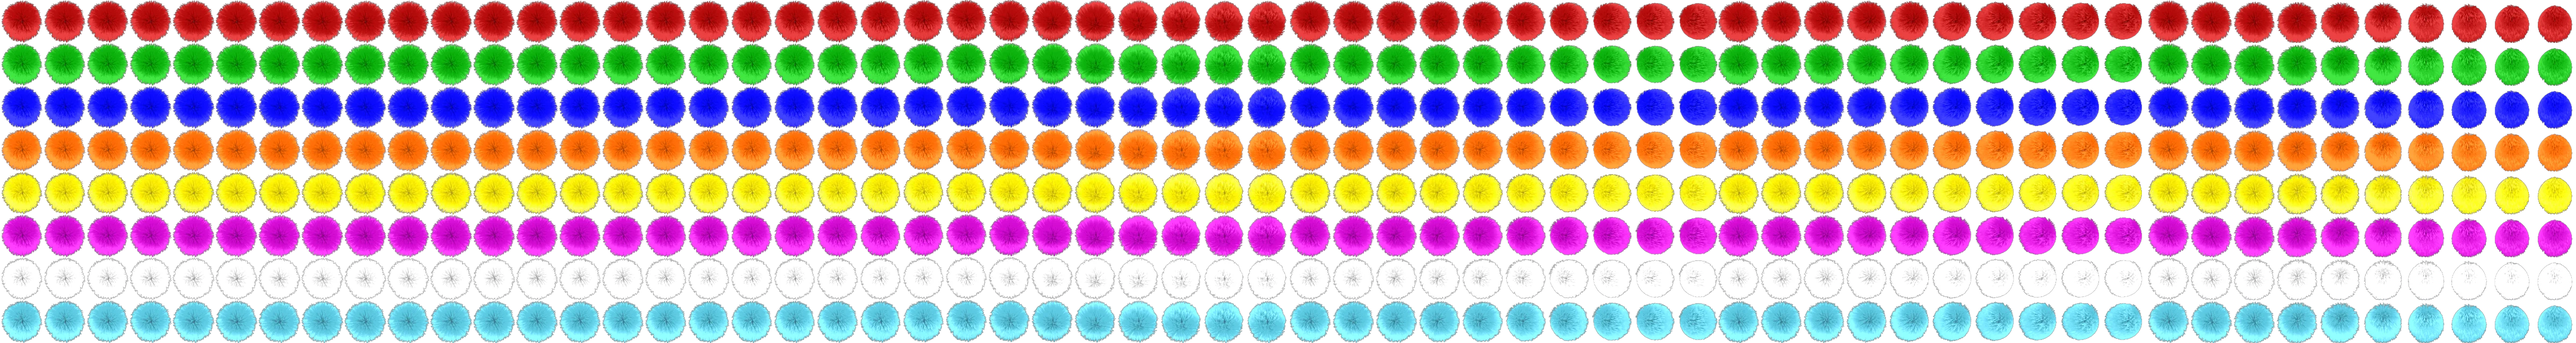
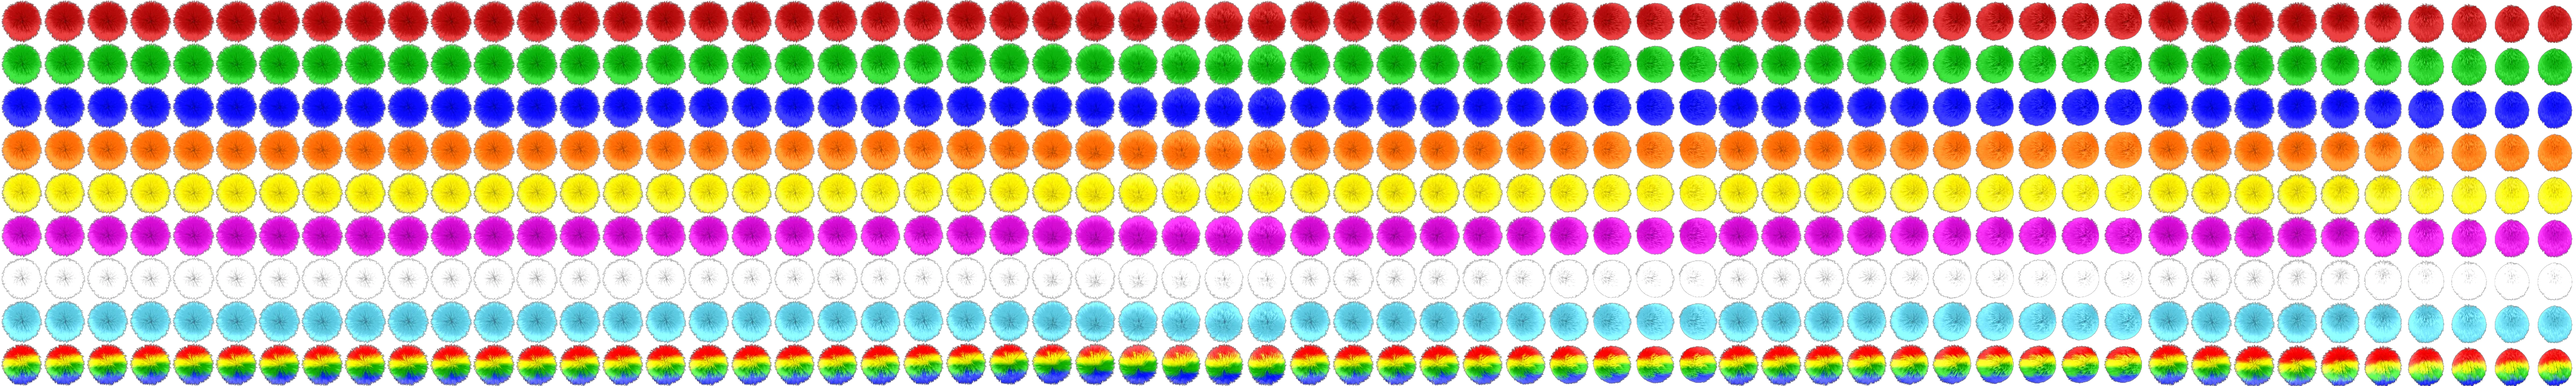
Mind Bender solver: the game's rainbow chuzzle

diff --git a/public/mindbender/app.js b/public/mindbender/app.js
@@ -3,8 +3,10 @@
 
 (() => {
   const COLORS = ['Red', 'Green', 'Blue', 'Orange', 'Yellow', 'Purple', 'White', 'Cyan'];
-  // Chuzzle 2's rainbow chuzzle: colour 8, on 5x5 boards only (the 6x6 solver packs 8 colours
-  // in 3 bits); it takes the 2x2's place in the palette, which 5x5 boards never have
+  // The rainbow chuzzle: colour 8 (Chuzzle 1 has it too: its own painted sprites, row 8 of
+  // chuzzles.webp, and the tint (1, 1, 0.5) in Board::InitColors). On 5x5 boards only (the 6x6
+  // solver packs 8 colours in 3 bits); it takes the 2x2's place in the palette, which 5x5
+  // boards never have
   const RAINBOW = 8;
   const colourName = (k) => (k === RAINBOW ? 'Rainbow' : COLORS[k]);
   const MAX_DEPTH = 12;
@@ -438,42 +440,16 @@
     ['shockwave', 'shockwave']]) {
     const img = new Image();
     img.src = `assets/${file}.webp`;
-    img.decode().then(() => { SHEETS[name] = name === 'body' ? withRainbow(img) : img; }, () => {});
+    img.decode().then(() => { SHEETS[name] = img; }, () => {});
   }
   // Board::InitColors: the hilite tints (mColors2; the match outline's colour) and the 2x2's
   // hilite, also the cheeks' (mColors3); and the page's own body tints (gen_sprites.py), for
   // the shut lids and the fuzz
-  const HILITE = [[1, 0.4, 0.4], [0.45, 0.9, 0.45], [0.55, 0.55, 1], [1, 0.85, 0.3], [1, 1, 0.55], [1, 0.65, 1], [1, 1, 1], [0.5, 1, 1], [1, 0.75, 1]];
-  const HILITE3 = [[1, 0.45, 0.45], [0.25, 0.9, 0.5], [0.55, 0.55, 1], [1, 0.85, 0.55], [1, 1, 0.75], [1, 0.6, 1], [1, 1, 1], [0.65, 1, 1], [1, 0.7, 1]];
-  const BODY = [[0.7, 0.03, 0.03], [0.03, 0.68, 0.03], [0.03, 0.03, 1], [1, 0.41, 0.01], [1, 1, 0], [0.81, 0.03, 0.81], [1, 1, 1], [0.34, 0.77, 0.87], [0.85, 0.35, 1]];
-  const RAINBOW_STOPS = ['#ff2d2d', '#ff9a1a', '#ffe81a', '#2fd62f', '#2fcfff', '#3a52ff', '#c23cff'];
-
-  // The body sheet (a row of 80 x 80 frames per colour) with a ninth row: the rainbow chuzzle,
-  // the white one's frames tinted by a rainbow running corner to corner across each frame.
-  function withRainbow(img) {
-    const W = img.width, H = img.height, white = 6 * 80;
-    const t = document.createElement('canvas');
-    t.width = W;
-    t.height = 80;
-    const tg = t.getContext('2d');
-    for (let x = 0; x < W; x += 80) {
-      const gr = tg.createLinearGradient(x + 12, 8, x + 68, 72);
-      RAINBOW_STOPS.forEach((c, i) => gr.addColorStop(i / (RAINBOW_STOPS.length - 1), c));
-      tg.fillStyle = gr;
-      tg.fillRect(x, 0, 80, 80);
-    }
-    tg.globalCompositeOperation = 'multiply';          // the white fur's shading over the hues
-    tg.drawImage(img, 0, white, W, 80, 0, 0, W, 80);
-    tg.globalCompositeOperation = 'destination-in';    // and its outline
-    tg.drawImage(img, 0, white, W, 80, 0, 0, W, 80);
-    const c = document.createElement('canvas');
-    c.width = W;
-    c.height = H + 80;
-    const g = c.getContext('2d');
-    g.drawImage(img, 0, 0);
-    g.drawImage(t, 0, H);
-    return c;
-  }
+  const HILITE = [[1, 0.4, 0.4], [0.45, 0.9, 0.45], [0.55, 0.55, 1], [1, 0.85, 0.3], [1, 1, 0.55], [1, 0.65, 1], [1, 1, 1], [0.5, 1, 1], [1, 1, 0.5]];
+  const HILITE3 = [[1, 0.45, 0.45], [0.25, 0.9, 0.5], [0.55, 0.55, 1], [1, 0.85, 0.55], [1, 1, 0.75], [1, 0.6, 1], [1, 1, 1], [0.65, 1, 1], [1, 1, 0.5]];
+  const BODY = [[0.7, 0.03, 0.03], [0.03, 0.68, 0.03], [0.03, 0.03, 1], [1, 0.41, 0.01], [1, 1, 0], [0.81, 0.03, 0.81], [1, 1, 1], [0.34, 0.77, 0.87], [1, 1, 0.5]];
+  // the tab's dot for a rainbow chuzzle: its bands, top to bottom
+  const RAINBOW_STOPS = ['#ff2d2d', '#ff9a1a', '#ffe81a', '#2fd62f', '#3a52ff'];
 
   function boardCanvas(el) {
     if (!el._cv) {
@@ -1856,7 +1832,7 @@
       if (piece && (r !== f.y || c !== f.x)) return;
       const w = piece ? 2 * pitch - gap : t;   // the 2x2's dot spans its four cells' dots edge to edge
       if (v === RAINBOW) {
-        const gr = ctx.createLinearGradient(pad + c * pitch, pad + r * pitch, pad + c * pitch + w, pad + r * pitch + w);
+        const gr = ctx.createLinearGradient(0, pad + r * pitch, 0, pad + r * pitch + w);
         RAINBOW_STOPS.forEach((col, i) => gr.addColorStop(i / (RAINBOW_STOPS.length - 1), col));
         ctx.fillStyle = gr;
       } else {
